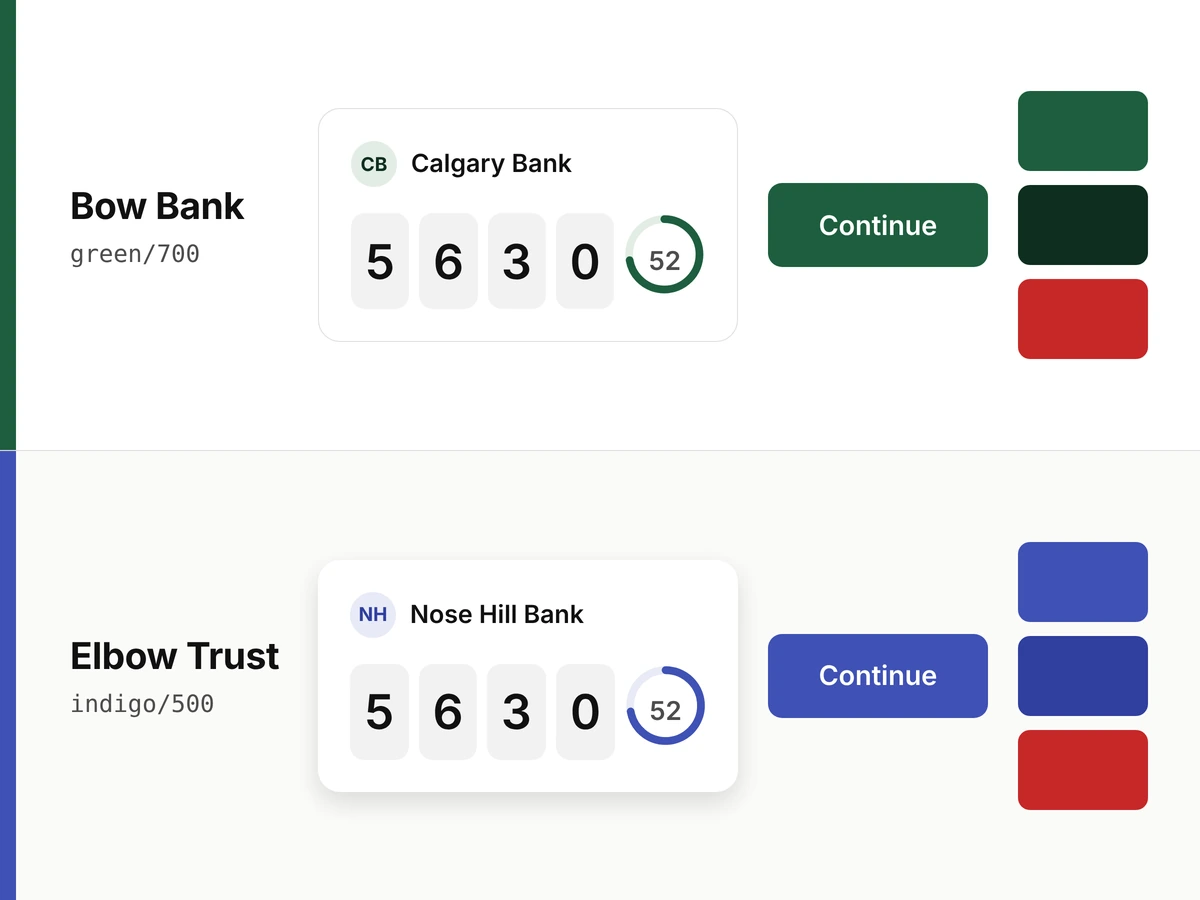
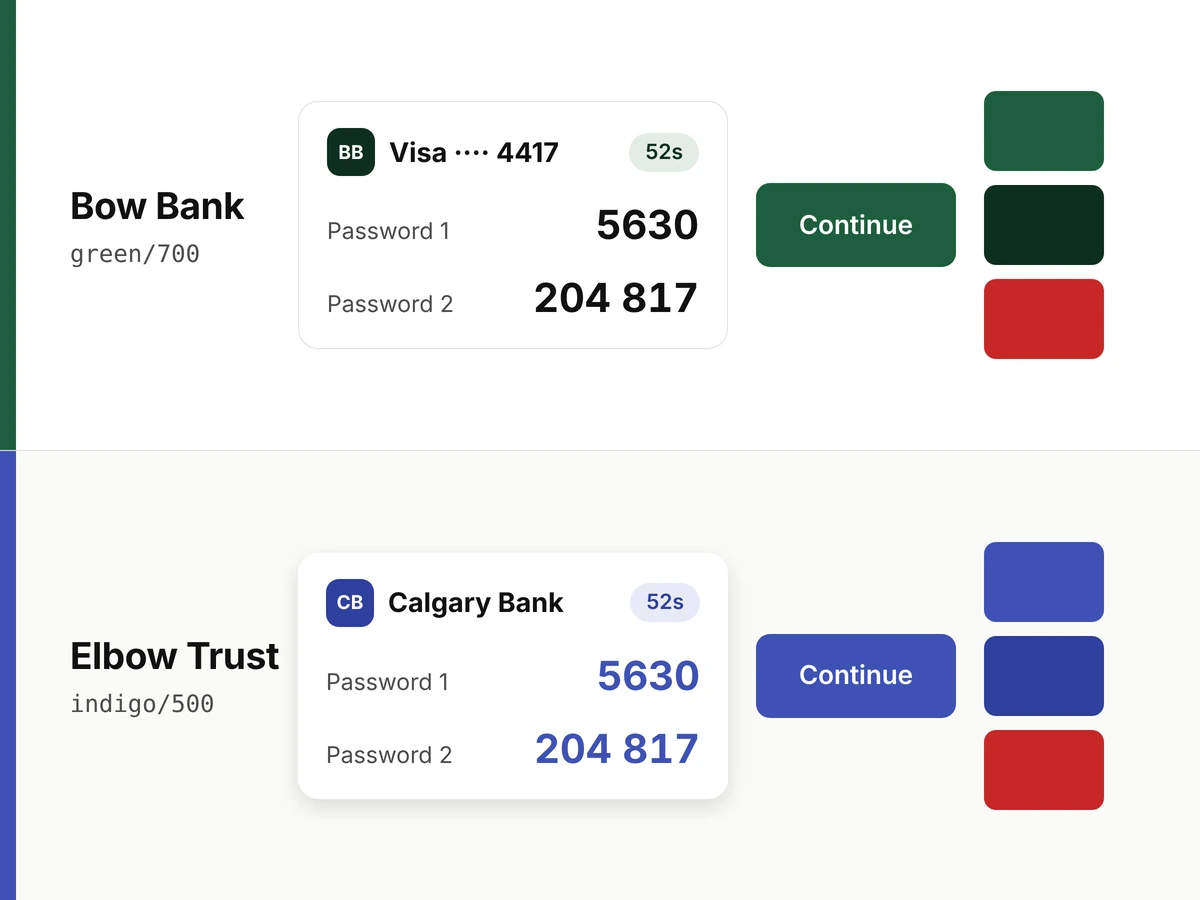
update thumbnail

diff --git a/otp-design-system.html b/otp-design-system.html
@@ -397,7 +397,7 @@
                         <div class="tk-panel">
                             <span class="tk-label">Code card</span>
                             <div class="tk-card">
-                                <div class="tk-card__head"><span class="tk-badge">CB</span><span class="tk-card__name">Calgary Bank</span><span class="tk-chip">52s</span></div>
+                                <div class="tk-card__head"><span class="tk-badge" data-tk-badge>CB</span><span class="tk-card__name" data-tk="cardname">Calgary Bank</span><span class="tk-chip">52s</span></div>
                                 <div class="tk-row"><span class="tk-row__label">Password 1</span><span class="tk-row__code">5630</span><span class="tk-icon"><svg viewBox="0 0 24 24" fill="none" stroke="currentColor" stroke-width="2" stroke-linecap="round" stroke-linejoin="round" aria-hidden="true"><rect x="9" y="9" width="13" height="13" rx="2"/><path d="M5 15H4a2 2 0 0 1-2-2V4a2 2 0 0 1 2-2h9a2 2 0 0 1 2 2v1"/></svg></span></div>
                                 <div class="tk-row"><span class="tk-row__label">Password 2</span><span class="tk-row__code">204 817</span><span class="tk-icon"><svg viewBox="0 0 24 24" fill="none" stroke="currentColor" stroke-width="2" stroke-linecap="round" stroke-linejoin="round" aria-hidden="true"><rect x="9" y="9" width="13" height="13" rx="2"/><path d="M5 15H4a2 2 0 0 1-2-2V4a2 2 0 0 1 2-2h9a2 2 0 0 1 2 2v1"/></svg></span></div>
                             </div>
@@ -408,7 +408,7 @@
                         </div>
                         <div class="tk-panel">
                             <span class="tk-label">List row</span>
-                            <div class="tk-call"><span class="tk-badge">CB</span><span class="tk-call__text"><b>Calgary Bank</b><small>1-800-555-0110</small></span><span class="tk-call__btn"><svg viewBox="0 0 24 24" fill="none" stroke="currentColor" stroke-width="2" stroke-linecap="round" stroke-linejoin="round" aria-hidden="true"><path d="M22 16.92v3a2 2 0 0 1-2.18 2 19.79 19.79 0 0 1-8.63-3.07 19.5 19.5 0 0 1-6-6 19.79 19.79 0 0 1-3.07-8.67A2 2 0 0 1 4.11 2h3a2 2 0 0 1 2 1.72 12.84 12.84 0 0 0 .7 2.81 2 2 0 0 1-.45 2.11L8.09 9.91a16 16 0 0 0 6 6l1.27-1.27a2 2 0 0 1 2.11-.45 12.84 12.84 0 0 0 2.81.7A2 2 0 0 1 22 16.92z"/></svg></span></div>
+                            <div class="tk-call"><span class="tk-badge" data-tk-badge>CB</span><span class="tk-call__text"><b data-tk="listname">Calgary Bank</b><small>1-800-555-0110</small></span><span class="tk-call__btn"><svg viewBox="0 0 24 24" fill="none" stroke="currentColor" stroke-width="2" stroke-linecap="round" stroke-linejoin="round" aria-hidden="true"><path d="M22 16.92v3a2 2 0 0 1-2.18 2 19.79 19.79 0 0 1-8.63-3.07 19.5 19.5 0 0 1-6-6 19.79 19.79 0 0 1-3.07-8.67A2 2 0 0 1 4.11 2h3a2 2 0 0 1 2 1.72 12.84 12.84 0 0 0 .7 2.81 2 2 0 0 1-.45 2.11L8.09 9.91a16 16 0 0 0 6 6l1.27-1.27a2 2 0 0 1 2.11-.45 12.84 12.84 0 0 0 2.81.7A2 2 0 0 1 22 16.92z"/></svg></span></div>
                         </div>
                     </div>
                 </div>
@@ -640,8 +640,8 @@ static let buttonPrimaryBg = brandPrimary</code></pre></figure>
         var box = document.getElementById('tk'); if (!box) return;
         var picks = document.querySelectorAll('[data-bank-pick]'), live = document.getElementById('tk-live');
         var BANKS = {
-            bow:   { name: 'Bow Bank', primary: ['#1E5E3E', 'green/700'], pressed: ['#0F2E1F', 'green/900'], subtle: ['#E3EDE4', 'green/50'], onsubtle: ['#0F2E1F', 'green/900'], font: 'Nunito', digit: 'text/primary (dark digits)', edge: 'A border' },
-            elbow: { name: 'Elbow Trust', primary: ['#3F51B5', 'indigo/500'], pressed: ['#303F9F', 'indigo/700'], subtle: ['#E8EAF6', 'indigo/50'], onsubtle: ['#303F9F', 'indigo/700'], font: 'Inter', digit: 'brand/primary (indigo digits)', edge: 'A shadow' }
+            bow:   { name: 'Bow Bank', primary: ['#1E5E3E', 'green/700'], pressed: ['#0F2E1F', 'green/900'], subtle: ['#E3EDE4', 'green/50'], onsubtle: ['#0F2E1F', 'green/900'], font: 'Nunito', digit: 'text/primary (dark digits)', edge: 'A border', badge: 'BB', cardname: 'Visa \u00b7\u00b7\u00b7\u00b7 4417', listname: 'Bow Bank' },
+            elbow: { name: 'Elbow Trust', primary: ['#3F51B5', 'indigo/500'], pressed: ['#303F9F', 'indigo/700'], subtle: ['#E8EAF6', 'indigo/50'], onsubtle: ['#303F9F', 'indigo/700'], font: 'Inter', digit: 'brand/primary (indigo digits)', edge: 'A shadow', badge: 'CB', cardname: 'Calgary Bank', listname: 'Calgary Bank' }
         };
         function paint(k, announce) {
             var B = BANKS[k]; box.setAttribute('data-bank', k);
@@ -649,7 +649,8 @@ static let buttonPrimaryBg = brandPrimary</code></pre></figure>
                 document.querySelector('[data-tk="' + t + '"]').textContent = B[t][1];
                 document.querySelector('[data-tk-sw="' + t + '"]').style.background = B[t][0];
             });
-            ['font', 'digit', 'edge'].forEach(function (t) { document.querySelector('[data-tk="' + t + '"]').textContent = B[t]; });
+            ['font', 'digit', 'edge', 'cardname', 'listname'].forEach(function (t) { document.querySelector('[data-tk="' + t + '"]').textContent = B[t]; });
+            [].forEach.call(document.querySelectorAll('[data-tk-badge]'), function (el) { el.textContent = B.badge; });
             if (announce) live.textContent = 'Showing the ' + B.name + ' theme.';
         }
         function choose(btn) {
